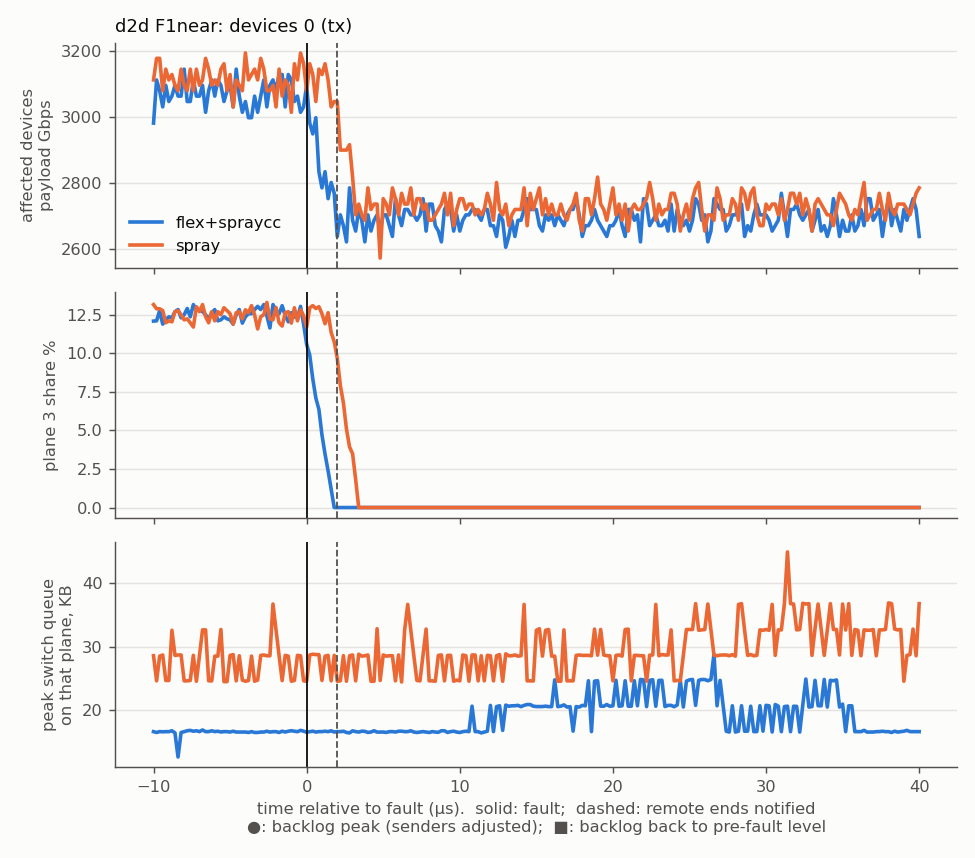
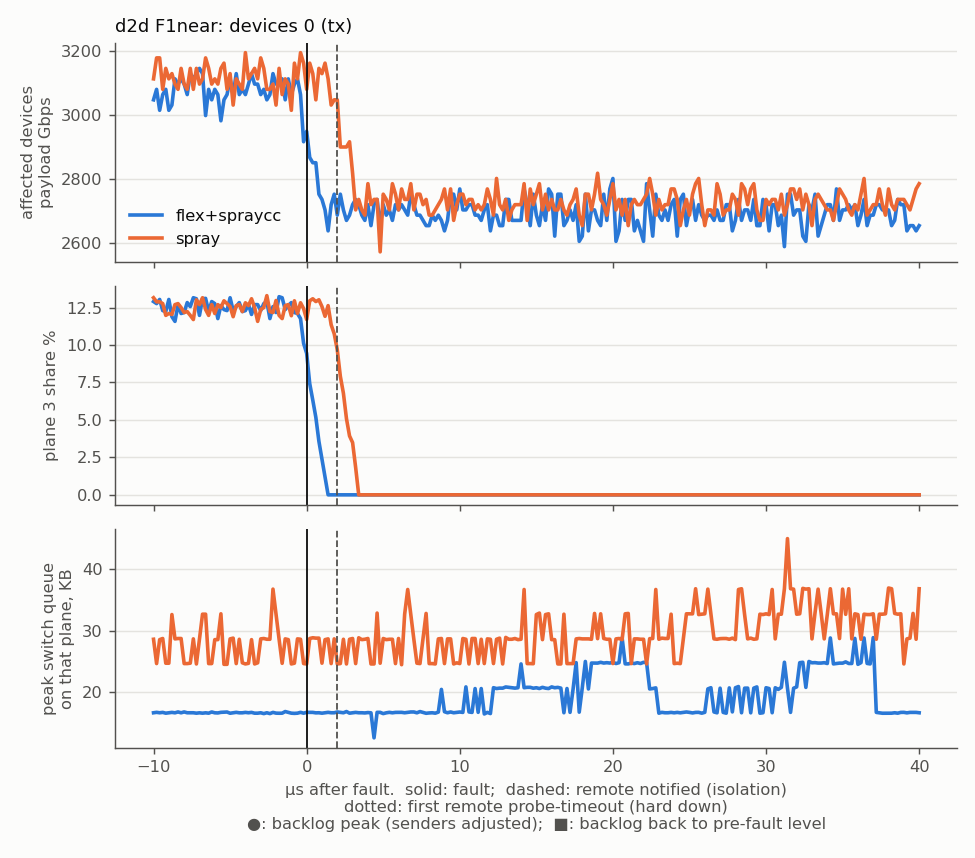
docs(flexspray): third-round report (v5.1), eval protocol, TODO T11/T12, figures
Third-round results answering the second review: fixed evaluator and baseline tag, T10 root
cause (app-limited delivery-rate estimate, not late backpressure) and fix (0.914 over 4 seeds),
read-mix tail feasibility proof and four rejected mechanisms (0.889, T11 open), oracle-free
failure detection and hard link-down recovery (64/64 complete, 0 false deaths; baselines hang on
endpoint/L1 hard failures), capability audit, rejected attempts, review responses.

diff --git a/scratch/flexspray/flexspray_timeseries.py b/scratch/flexspray/flexspray_timeseries.py
@@ -124,7 +124,7 @@ def key_times(meta, s, notify_ns):
     pre_rate = sum(rate[i] for i in range(len(t)) if tf - 20 <= t[i] < tf - 1) / \
         max(1, len([1 for i in range(len(t)) if tf - 20 <= t[i] < tf - 1]))
     dip = min(rate[i] for i in win if t[i] <= tf + 10)
-    isolation = any(r[3] in ("ISOLATE", "ISOLATE_NODE") for r in meta["fault_rows"])
+    isolation = any(r[3] in ("ISOLATE", "ISOLATE_NODE") for r in meta["fault_rows"])  # not DOWN
     return dict(t_f=tf, t_detect_remote=tf + notify_ns / 1000.0 if isolation else None,
                 t_qpeak=t_qpeak, q_peak_kb=q[ipk], q_base_kb=base, t_settle=settle,
                 q_end_kb=q[win[-1]], rate_pre=pre_rate, rate_post=post_rate,
@@ -173,6 +173,16 @@ def main():
                 axes[2].plot([x[k]], [s["qmax_kb"][k]], marker=mk, ms=8, color=col, mec=SURF,
                              mew=2, zorder=5)
     kt0 = next(iter(res.values()))
+    # Hard link-down: mark transport detection events from the first case (FailureEvent.csv).
+    fe = os.path.join(a.cases[0], "runlog", "FailureEvent.csv")
+    if os.path.exists(fe):
+        import csv as _csv
+        ev = list(_csv.DictReader(open(fe)))
+        dead = [int(r["time_ns"]) / 1000.0 - kt0["t_f"] for r in ev if r["event"] == "probe-timeout"]
+        if dead:
+            kt0["t_remote_dead_first"] = min(dead) + kt0["t_f"]
+            for ax in axes:
+                ax.axvline(min(dead), color=INK2, lw=1, ls=":")
     for ax in axes:
         ax.axvline(0, color=INK, lw=1)
         if kt0["t_detect_remote"] is not None:
@@ -183,7 +193,8 @@ def main():
     axes[0].set_ylabel("affected devices\npayload Gbps")
     axes[1].set_ylabel(f"plane {(meta0.get('fault_info') or {}).get('plane', 3)} share %")
     axes[2].set_ylabel("peak switch queue\non that plane, KB")
-    axes[2].set_xlabel("time relative to fault (µs).  solid: fault;  dashed: remote ends notified\n"
+    axes[2].set_xlabel("µs after fault.  solid: fault;  dashed: remote notified (isolation)\n"
+                       "dotted: first remote probe-timeout (hard down)\n"
                        "●: backlog peak (senders adjusted);  ■: backlog back to pre-fault level")
     axes[0].legend(frameon=False, loc="lower left", labelcolor=INK)
     fi = meta0.get("fault_info") or {}

diff --git a/scratch/flexspray/REPORT.md b/scratch/flexspray/REPORT.md
@@ -1,22 +1,171 @@
-# FlexSpray：UB 多平面 Packet-Spray 负载均衡与拥塞控制 —— 实验报告（第二轮）
+# FlexSpray：UB 多平面 Packet-Spray 负载均衡与拥塞控制 —— 实验报告（第三轮）
 
-本轮回应独立评审的意见（2026-11-07）：补齐指标口径、故障全过程、覆盖面和拥塞控制必要性的证据。
-新覆盖暴露出 FlexSpray 在读方向和双平面设备上的缺陷，本轮已修复；修复后用新版本重跑了全部实验。
-第 9 节逐条回应评审意见。做不了或很难做完的事项见 `TODO.md`。
+第三轮按第二次评审的要求（2026-11-08）推进了剩余机制，而不是扩充评审回复。完成的内容：
 
-代码在分支 `feat/flexspray`（ns-3-ub），按里程碑提交：
+- 在任何改动之前固定了评估口径（`EVAL_PROTOCOL.md`）；
+- 定位并修复了 T10，即上行收敛 fabric 下 0.874 的问题；
+- 对 0.883 做了可行性分析和四种机制尝试，问题仍未关闭；
+- 实现了不依赖预言机的远端故障感知（T3）；
+- 实现了硬断链下的最小恢复闭环（T1）。
+
+第 0 节是第三轮的结论与逐条回应。第 1–9 节保留第二轮（v4）的详细结果：v5.1 与 v4 相比，在调参种子的 49 个场景中没有任何一格变差超过 1 pp（见 0.2），所以这些 v4 结果仍有代表性。尚未解决的事项见 `TODO.md`（T1–T11）。
+
+## 0. 第三轮（FlexSpray v5.1）
+
+代码：分支 `feat/flexspray`，评估基线为 `git tag flexspray-v4-baseline`。
 
 | 提交 | 内容 |
 |---|---|
-| `9d1bde7d` `8ce8aeb8` `bb3616df` `36809459` | 第一轮：提速、链路亚健康注入、FlexSpray v1、CAQM 修复 |
-| `e7b93dd2` | DCQCN pacing 死锁、CAQM 乱序 ACK 死锁 |
-| `1fbe54eb` | 测量与分析：逐设备端口带宽、与排空一致的故障上限、暴露量、分段 LP、新场景 |
-| `555916b5` | v2：读方向单独的发送管线深度 |
-| `3a01ce70` | v3：读请求走控制 VL、读配额随可用平面重新分摊、读响应不受 CC 门控、公平仲裁只计可用平面、CBFC 配置告警 |
-| `c954e44e` | v4：`TpgDispatchSlack=0`（严格等待）|
+| `63198337` | 评估口径：与方案无关的故障上限 `eff_fixed`、留出流量映射 `--map 1`、`EVAL_PROTOCOL.md` |
+| `9898ce77` | 投递速率估计的"应用受限"保护（T10）；逐 TP 状态采样器（`UB_TP_SAMPLE_NODES`） |
+| `eeeb6309` | 硬断链（`DOWN`/`DOWN_NODE`）；传输层故障检测（PROBE/PROBE_REPLY）；死 TP 的段重新派发（T1/T3） |
+| `5ea867d5` | 重传改用 GBN；被否定的尝试说明 |
+| `1adee1a9` | v5.1：应用受限保护只作用于没有未回读字节的 TP |
+| `67471995` | SprayCC 在重传超时时释放在途窗口（修复硬断链下的读死锁），附单元测试 |
 
-除非特别说明，下文的 FlexSpray 均指 v4（`flex+spraycc`）。所有数字取两个种子中较差的一个。
-原始数据在 `/home/cassius/ub/work/exp/{final4,cover4,osub4,buf4,r5_abl,r5_notify,r5_ts}`。
+FlexSpray v5.1 = v4，加上以下四项：
+- 投递速率估计的应用受限保护；
+- 传输层故障检测（静默 10 µs 进入怀疑 → 在控制 VL 上探测 → 3 × 5 µs 无应答则判死）；
+- 死 TP 的段重新派发；
+- GBN 重传。
+
+新增的属性默认全部关闭；golden 回归逐字节不变；`unified-bus` 的全部测试套件通过，新增 2 个测试：硬断链后读写恰好完成一次；SprayCC 在重传超时时释放窗口。
+
+### 0.1 评估口径（事先固定）
+
+- **主要口径 `eff_fixed`**：与方案无关的流体 LP。被隔离的资源在 t_f + 2 µs 之前保持全容量，之后容量为 0；降 lane 在 t_f 生效；硬断链在 t_f 生效。
+  - 第二轮"给定实测排空量"的 LP 降为条件参照，只用于解释。
+  - 在固定规则下，读场景的优雅隔离 `eff_fixed` 会超过 1（a2aread F4 为 1.037）。原因是读响应在隔离后仍在借用故障端口，这正是"优雅隔离"语义的代价，硬断链实验（0.5 节）去掉了这个因素。
+- **种子划分**：调参只用种子 1、2；验收同时报告留出集，即种子 3、4，以及 `--map 1`（所有端点重新标号，故障位置不变，因而故障落在不同的流量角色上）。
+- 所有场景使用同一套参数，不按场景调参；每个新机制都附带关闭它的消融。
+
+### 0.2 结论速览（v5.1；所有数字为多个种子中最差者）
+
+| 题目要求 | v5.1 | 第二轮 v4 | 最好的对照方案 |
+|---|---|---|---|
+| 点对点 d2d / d2dread / h2d（≥95%） | 0.985 / 0.988 / 0.983 | 同左 | 0.993 / 0.997 / 0.988 |
+| alltoall 写 / 读（≥90%） | 0.962 / 0.965 | 0.965 / 0.965 | 0.918 / 0.943 |
+| 混跑写 / 读，按完成时间算的效率 | 0.932 / 0.938 | 0.935 / 0.933 | 0.667 / 0.786 |
+| 混跑写，逐设备端口利用率（全程，4 个种子） | NPU 0.925、CPU 0.990、NIC 0.994、SSD 0.941 | 同左 | NPU 0.65 |
+| 混跑读，逐设备端口利用率（全程，4 个种子） | NPU **0.889**、CPU 0.990、NIC 0.998、SSD 0.943 | NPU 0.883 | NPU 0.78 |
+| 7 个场景 × 7 种优雅故障 × 4 个种子 | 最差 0.925 | 0.920（2 个种子） | — |
+| 留出映射 `--map 1`（49 个场景） | 最差 0.925 | 0.925 | — |
+| 与 v4 对比（调参种子，49 个场景） | 无一格变差超过 1 pp，2 格变好（a2a F1near 0.952 → 0.966，mixedread F1near 0.920 → 0.936） | — | — |
+| 上行收敛 fabric（8 上行 / 11 下行），4 个种子 | F0 0.935、**F2up 0.914**、F4 0.957 | F2up 0.866–0.874 | 0.53–0.66 |
+| SSD/NIC 所在平面的故障 | 最差 0.899（mixed F1ssd，见下） | 0.940 | 0.61–0.71 |
+| 重度 incast 下的受害 alltoall（深缓冲 / 浅缓冲） | 0.969 / 0.966 | 0.969 / 0.963 | 0.90 / 0.80 |
+| **硬断链**：64 个 case（7 个场景 × 4 种硬故障 + 双平面设备硬故障） | 64/64 完成；效率 0.932–0.988，唯一例外是 mixed H4p4 0.870 | 不支持 | 端点和 L1 硬断全部挂死 |
+| 误判死亡 | 0（64 个硬断链 case、16 个拥塞与降 lane 反例、不开 CC 的 incast） | — | — |
+
+两处需要说明：
+
+- **mixed F1ssd 种子敏感**：4 个种子在 0.899–0.963 之间，关闭新机制时为 0.896–0.960，两者同样敏感。这个场景中 SSD0（incast 热点）丢掉一半容量，最差值比 0.9 低 0.1 pp。
+- **mixed H4p4（服务器 0 平面 4 的 L1 硬断）为 0.870**：同一位置的优雅隔离为 0.954。L1 硬断后，所有经过它的在途流量都丢失并需要重发（3.3 MB）；同时 SSD0 只剩一个端口。
+
+### 0.3 T10 的根因与修复（上行收敛 fabric，mixed F2up）
+
+原假说"约 1 MB 的 CBFC 反压太晚"经观测**被推翻**。新增的逐 TP 采样器（`TpSample.csv`）和分发等待计时（`DeferSample.csv`）显示：
+
+1. 拖尾的是另一条流：服务器 3 的 CPU1 → 服务器 0 的 NPU7。被隔离的链路是双向的，进入服务器 0 平面 3 的下行容量少了 1/8。
+2. 这条流在平面 3 上只分到 4.2 MB，其他平面各 7.4 MB。平面 3 的 TP 在途只有 7–12 个包（其他平面 20–26），排空时间估计与其他平面相同。fabric 中只有 L2→L1 的一条剩余链路排了 82 KB 的队。
+3. 机制：平面 3 短暂变慢 → 投递速率估计下降 → 严格等待的分发器少给该平面 → TP 没有积压可发，变成"应用受限" → 应用受限期间测得的仍是低速率 → 估计值一直回不去。因分发等待而空等的时间从 97 µs 增加到 157 µs。v4 的严格等待放大了这个循环（0.891 → 0.874）。
+
+修复（`DeliveryRateAppLimitedGuard`，与 BBR 的做法相同）：TP 没有积压时测得的样本，只能调高估计，不能调低。
+- v5 曾把这项保护用于所有 TP，导致读请求方被误判：读请求方的发送队列为空，通常是因为读配额已满，属于受网络限制。结果读混跑 F3ssd 的损失比下限高 3.2 pp。v5.1 改为只作用于没有未回读字节的 TP。
+
+结果：osub mixed F2up 在 4 个种子中最差 **0.914**，关闭保护的消融为 0.866；其他 49 个场景没有回退。
+
+### 0.4 读混跑尾段（0.883 → 0.889）与读拥塞控制
+
+- **可行性**：用带截止时间的流体 LP 做了检验（`flexspray_feasibility.py`）。每台设备的截止时间 = 它的字节数 / (0.9 × 端口协议上限)，每条流继承两端截止时间中较早的那个。结论：mixed 中所有设备同时 ≥ 0.9 **可行**，上限 U* = 0.944；mixedread 在 U = 0.9 时同样**可行**。所以 0.9 不是负载本身的不可达限制。
+- **差距来源**：最差设备是**响应方**，它自身的需求只有端口上限的 93%。它最后一条流的完成时间由热点读者决定，而热点读者的入口已经饱和。要达到 0.9，热点读者必须在约 168 µs 内收完，即整体效率 ≥ 0.968；当前约为 0.93–0.94。
+  - 损失来自启动爬升（约 1–2 µs）和逐流尾段：每条流在每个平面上只有约 17 Gbps，一个 16 KB 段要排空 7.7 µs。
+- **试过并被否定的四种机制**（代码已撤回）：
+  1. 尾段改用小段：读混跑从 0.93 降到 0.87；4 KB 尾段时写混跑挂起；
+  2. 按响应上的拥塞标记做 AIMD 调整读预算（即评审建议的机制）：降到 0.69–0.73；
+  3. 调整 per-TP 读配额（96 / 384 KB）、读管线深度 16、8 KB 段：全部变差；
+  4. 按端口限制读预算（第二轮）：降到 0.62–0.78。
+- **v5.1 的结果**：0.889（4 个种子）。**未关闭**，记为 T11。
+- 关于"读响应豁免 CC"：评审的判断正确，这只解决了"响应方重复门控"造成的性能问题，并不等于读拥塞控制已经完整解决。浅缓冲读混跑仍有约 41% 的端口阻塞（对照方案 37–50%），v5.1 浅缓冲读混跑效率为 0.924。
+  - 请求方按标记收缩读预算会严重损失吞吐，原因是读配额的粒度（16 KB 段，每个 TP 只有十几个段）太粗，AIMD 很难稳定在合适的位置。
+
+### 0.5 硬断链（T1）与无预言机的故障感知（T3）
+
+**能力核查**（本分支原有机制）：
+
+| 故障位置 | 原有机制能否恢复 | 缺口 | 本轮新增 |
+|---|---|---|---|
+| L1–L2 单条链路 | 能：`UbLink::Fail` + `UbReliableRerouting`，交换机保留原包，等 LastAck 后迁移，不丢包。限制：每次仿真只能坏一条链路、必须在流量开始前布防 | 多条链路同时失效 | `DOWN` 动作：两端交换机立即把断口移出路由；排队中丢失的包由 TP 的 GBN 重传恢复 |
+| 端点单端口 | 不能：TP 绑定在已断的端口上，重传只在原 TP 上进行 | 判定 TP 死亡、跨 TP 重发 | 端口硬断、故障检测、段重新派发 |
+| 整个 L1 / 平面 | 不能（多条链路） | 同上 | `DOWN_NODE` |
+
+**机制**：
+
+- **硬断**：链路两端的端口丢弃所有发送、在途和到达的包。已断端口不再等待死对端回送 credit，所以上游不会被永久阻塞。只有链路两端知道这件事，没有全局通知。
+- **检测**：TP 有在途工作且对端沉默 10 µs → 进入"怀疑"（可逆，暂停接纳新段）→ 在控制 VL 上发送 PROBE → 对端回 PROBE_REPLY 即解除；连续 3 次、每次 5 µs 无应答 → 判死。
+  - **新增协议字段**：TP opcode 0x4（PROBE）和 0x7（PROBE_REPLY），原为保留值，报文只有 TP 头。
+  - 探测走高优先级 VL，所以数据 VL 再拥塞也能在几微秒内得到应答。
+- **重新派发**：死 TP 上未完成的 WRITE/READ 段，复制后重置传输状态，转到同组中排空时间最小的存活成员。
+  - transport-work lease 随之迁移，记录重新绑定到新 TP。
+  - 只有记录中当前那一代 TP 的完成会被接受，旧路径迟到的响应被安静地忽略，所以保证恰好完成一次。
+  - 原子操作不重发：目标端没有按 TaSsn 去重，重复执行不安全。
+
+**结果**（FlexSpray v5.1，两个种子；对照方案开启 GBN 重传）：
+
+| 硬故障 | FlexSpray v5.1：完成 / 效率 | 丢失 | 重新派发的段 | 远端判死时间（故障后） | spray / adaptive+CAQM / spray+DCQCN |
+|---|---|---|---|---|---|
+| H1near/H1far（NPU 端口）× 7 个场景 | 28/28，0.942–0.988 | 10–1440 KB | 5–511 | 23.6–29.5 µs | 除 h2d H1near 外全部挂死 |
+| H4（L1 整体）× 7 个场景 | 14/14，0.947–0.987 | 0.2–8.7 MB | 23–3593 | 23.4–30.6 µs | 全部挂死 |
+| H2up（L1 上行口，fabric 内）× 7 个场景 | 14/14，0.932–0.983 | 0–21 KB | 0（由重传恢复） | 不需要判死 | 完成，但 mixed 0.59–0.67、mixedread 0.60–0.79；adaptive+CAQM 在 d2d/d2dread/h2d 挂死 |
+| H1ssd / H4p4（SSD 平面） | 8/8，0.870–0.987 | 0.1–7.8 MB | 37–2020 | 首次 23.8–24.0 µs，最晚 122.8 µs（含惰性检测） | 全部挂死 |
+
+- 部分 TP 在故障发生时处于空闲，要等下一次被使用才开始检测，所以最晚的判死发生在故障后约 123 µs；在此之前它们没有承载流量。
+- **消融**：
+  - 关闭故障检测（`nofd`）：所有端点和 L1 硬断挂死；
+  - 关闭重传（`nortx`）：H2up 挂死；
+  - 健康和优雅故障场景下，两者一起关掉的差别在 ±1 pp 以内，说明这些机制平时没有代价。
+- **反例（不能把仍可工作的 TP 判死）**：在以下场景中，"怀疑"最多出现 3169 次，但全部被探测应答解除，误判死亡为 0：
+  - 不开 CC 的重度 incast（数据 VL 排队十几 MB）；
+  - 浅缓冲 incast（端口 credit 阻塞约 80%）；
+  - 降 lane；
+  - 读热点混跑。
+- **重传必须与 CC 一起使用**：不开 CC 的重度 incast 打开重传后，排队时延超过 25.6 µs 的重传超时，会引起多余重传，效率掉到 0.726。FlexSpray 始终开启 SprayCC，开启后 incast 为 0.995。
+- **本轮发现并修复的问题**：
+  - **SprayCC 的重传死锁**：SprayCC 原先没有实现"重传超时释放在途窗口"。硬断链后，窗口被已丢失的读响应占满，而 GBN 重传又受同一个窗口限制，于是读事务永久挂起（`67471995`）。
+  - **对照方案 adaptive+CAQM 加重传**：在 H2up 的 d2d/d2dread/h2d 中也会挂死。CAQM 实现了窗口回退，原因未查。
+- **代价分开报告**：
+  - 容量下降：同一位置优雅隔离的损失；
+  - 检测等待：远端约 25 µs，期间发往死路径的包全部丢失（"丢失"列）；
+  - 重发开销："重新派发的段"列 × 16 KB；
+  - 恢复后的稳态：见时间序列图 `fig/ts_d2d__H1far.png`、`fig/ts_a2a__H4.png`、`fig/ts_mixed__H4.png`（虚线为第一次远端判死）。
+- 优雅隔离（`ISOLATE`，运维主动发起的保护切换）仍由管理面通知远端，时延可配。真正的意外故障，应当用 `DOWN` 加故障检测来建模。
+
+### 0.6 被否定的尝试（第三轮）
+
+| 尝试 | 结果 | 处理 |
+|---|---|---|
+| 选择性重传（SELECTIVE） | 健康 d2d 从 0.985 降到 0.970；H2up 0.950，GBN 为 0.965 | 改用 GBN |
+| 应用受限保护作用于所有 TP（v5） | 读混跑 F3ssd 损失比下限高 3.2 pp，健康读混跑降 1.4 pp | v5.1 只作用于写方向的 TP |
+| 尾段小段、读预算 AIMD、读配额和段长调整 | 见 0.4，全部变差 | 撤回 |
+| 全路径打标（EdgeOnly=false）用于 T10 | 无变化 | — |
+
+### 0.7 对第二次评审意见的逐条回应
+
+| 评审要求 | 结果 | 尚未解决 |
+|---|---|---|
+| 固定评估口径和 v4 基线，排空规则事先约定 | `EVAL_PROTOCOL.md`、tag、`eff_fixed`、留出集 | — |
+| T10 ≥ 0.90，先验证根因；新增提示需要计入开销；留出种子；消融 | 根因被观测推翻，改为速率估计的应用受限问题，0.914（4 个种子）；关闭保护的消融为 0.866；修复不需要新协议字段，没有额外开销 | — |
+| 读混跑尾段：修好，或证明不可达 | 证明可达（流体 LP）；定位差距；4 种机制失败；0.889 | **T11** |
+| 读拥塞控制：请求方依据拥塞信息调整预算 | 实现后被否定（0.69–0.73） | T11 |
+| T3：关闭预言机，靠报文或本地观测感知；拥塞和降 lane 下不误判 | 硬断链路径完全不用预言机；探测报文走控制 VL；误判为 0 | 优雅隔离仍由管理面通知 |
+| T1：先核查能力，再做最小闭环；事务正确、无永久 credit 阻塞；报告丢失、重传和恢复 | 能力核查表；64/64 完成；丢失、重发、检测时间分开报告 | 原子操作重发；死 TP 的回收；所有成员都失效时的处理 |
+| 外部依赖 | 无法推进：指定 benchmark（T2）、口径约定（T7）、真实设备对齐（T4） | — |
+
+数据：`/home/cassius/ub/work/exp/{r9_core,r9_cov,r9_osub,r9_map,r10_hard,r10_hardabl,r10_neg,r10_buf,r10_abl,r10_ts}`，对照方案的硬断链结果在 `r8_hard`。
+
+---
+
+# 第二轮（v4）详细结果
 
 ## 1. 结论速览
 

diff --git a/scratch/flexspray/TODO.md b/scratch/flexspray/TODO.md
@@ -93,6 +93,14 @@
   - 按端口限制读预算（降到 0.62–0.78）。
 - 建议方向：让响应方按流的剩余字节加权调度（需要在读请求中携带剩余量提示）；或在流的尾段临时提高该流在请求方入口的优先级。
 
+## T12. 第三轮遗留的小问题
+
+- **mixed F1ssd 种子敏感**：4 个种子在 0.899–0.963 之间，关闭新机制时为 0.896–0.960；最差值比 0.9 低 0.1 pp。SSD0（incast 热点）丢掉一半容量时，结果对控制小包的时序很敏感。
+- **mixed H4p4（硬断）为 0.870**：服务器 0 平面 4 的 L1 硬断后，所有在途流量都要重发（3.3 MB），同时 SSD0 只剩一个端口。可以考虑在判死前就开始重新派发（例如本端端口断开时，按对端平面主动迁移）。
+- **惰性检测**：故障发生时处于空闲的 TP，要等下一次被使用才开始检测（最晚在故障后 123 µs 才判死，其间要等待 25 µs）。可以考虑在同组任一成员判死时，探测同一平面上的其他 TP。
+- **对照方案 adaptive+CAQM 加 GBN 重传**：在 H2up 的 d2d/d2dread/h2d 中挂死。CAQM 实现了窗口回退，原因未查。
+- **检测参数（10 µs / 5 µs × 3）**：按本拓扑的 RTT 选取，没有做自适应。探测报文的带宽占用也没有单独统计。
+
 ## T7. 指标口径与评审方的约定（非技术工作）
 
 - 1/N 的考核对象：全网汇总、受损设备、还是扣除容量下降后的额外损失？
